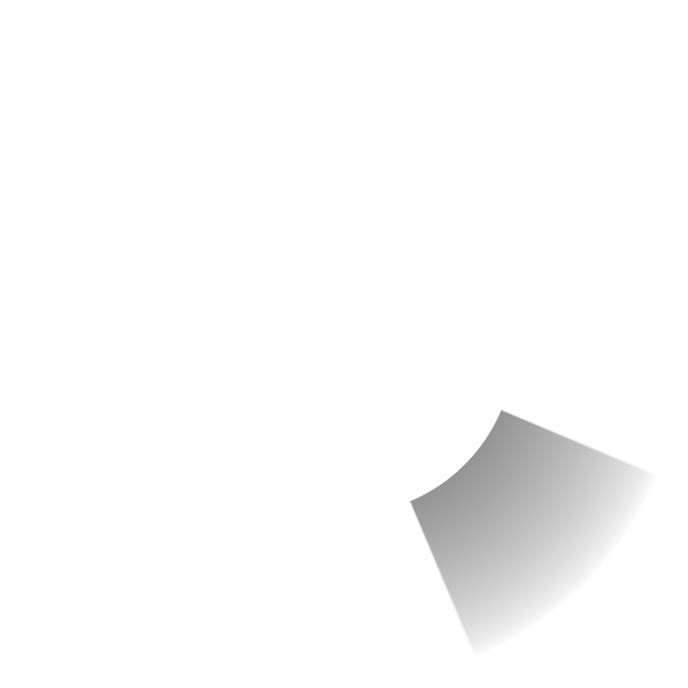
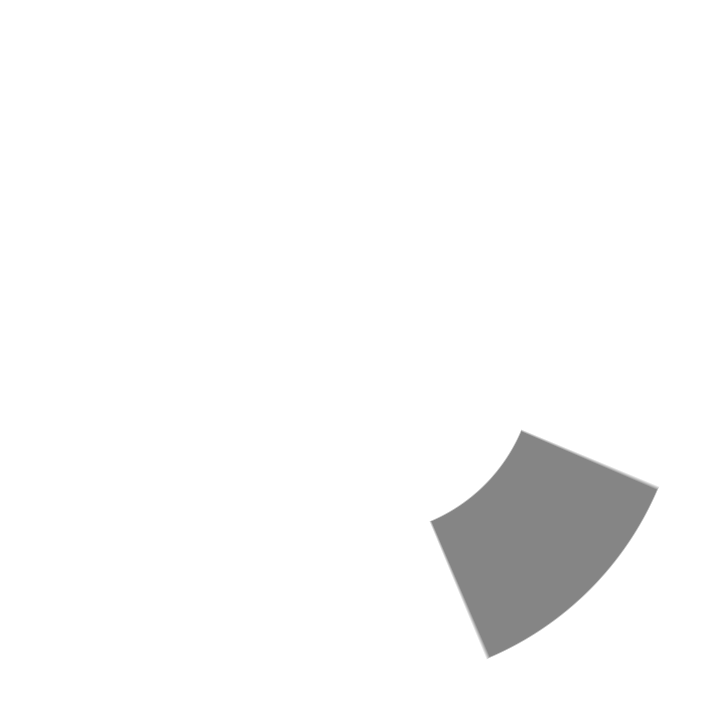
Refine wheel sector artwork and keep overlays mounted

Changed region(s): [[0.5799, 0.5799, 0.9462, 0.9462]]

diff --git a/tests/extension.test.js b/tests/extension.test.js
@@ -186,24 +186,31 @@ test('removes the tool and reports an error when mode registration fails', async
   assert.ok(fake.notifications.some(({ message, variant }) => message.includes('轮盘模式注册失败') && variant === 'ERROR'));
 });
 
-test('dragging updates one wheel image and broadcasts the original scene point', async t => {
+test('dragging updates overlay images without replacing the static wheel', async t => {
   const fake = await setup(t);
   const mode = fake.modes.values().next().value;
   mode.onToolDown({}, event(120, 240));
   await flush();
-  assert.equal(fake.items.size, 1);
-  const wheel = [...fake.items.values()][0];
-  assert.equal(wheel.image.url, TEST_UI_ASSETS.wheels.caution.url);
+  assert.equal(fake.items.size, 3);
+  const wheel = [...fake.items.values()].find(item => item.id.includes('/wheel-base/'));
+  const selection = [...fake.items.values()].find(item => item.id.includes('/wheel-selection/'));
+  const center = [...fake.items.values()].find(item => item.id.includes('/wheel-center/'));
+  assert.equal(wheel.image.url, TEST_UI_ASSETS.wheelBase.url);
+  assert.equal(selection.image.url, TEST_UI_ASSETS.wheelSelectionNone.url);
+  assert.equal(center.image.url, TEST_UI_ASSETS.wheelCenters.caution.url);
   mode.onToolMove({}, event(300, 240));
   await flush();
-  assert.equal(wheel.name, 'ON MY WAY');
-  assert.equal(wheel.image.url, TEST_UI_ASSETS.wheels.omw.url);
+  assert.equal(selection.name, 'ON MY WAY');
+  assert.equal(selection.image.url, TEST_UI_ASSETS.wheelSelections.omw.url);
+  assert.equal(center.image.url, TEST_UI_ASSETS.wheelCenters.omw.url);
   mode.onToolMove({}, event(120, 60));
   await flush();
-  assert.equal(wheel.name, 'RETREAT');
+  assert.equal(selection.name, 'RETREAT');
+  assert.equal(center.image.url, TEST_UI_ASSETS.wheelCenters.retreat.url);
   mode.onToolMove({}, event(120, 240));
   await flush();
-  assert.equal(wheel.name, 'CAUTION');
+  assert.equal(selection.name, 'CAUTION');
+  assert.equal(center.image.url, TEST_UI_ASSETS.wheelCenters.caution.url);
   mode.onToolUp({}, event(300, 240));
   await flush();
   assert.equal(fake.messages.length, 1);
@@ -299,18 +306,21 @@ test('all wheel states share a single image size, including bait and the full mi
   mode.onToolDown({}, event(200, 200));
   await flush();
   const wheel = [...fake.items.values()][0];
+  const selection = [...fake.items.values()].find(item => item.id.includes('/wheel-selection/'));
+  const center = [...fake.items.values()].find(item => item.id.includes('/wheel-center/'));
   for (const [index, id] of ['retreat', 'bait', 'omw', 'allin', 'assist', 'hold', 'missing', 'push'].entries()) {
     const angle = (-90 + index * 45) * Math.PI / 180;
     mode.onToolMove({}, event(200 + 130 * Math.cos(angle), 200 + 130 * Math.sin(angle)));
     await flush();
-    assert.equal(wheel.image.url, TEST_UI_ASSETS.wheels[id].url);
-    assert.equal(fake.items.size, 1, 'no independently scaled icons or labels');
-    assert.equal(wheel.image.width, 688);
-    assert.deepEqual(wheel.grid.offset, { x: 344, y: 344 });
+    assert.equal(selection.image.url, TEST_UI_ASSETS.wheelSelections[id].url);
+    assert.equal(center.image.url, TEST_UI_ASSETS.wheelCenters[id].url);
+    assert.equal(fake.items.size, 3, 'static wheel and two overlays remain mounted');
+      assert.equal(wheel.image.width, 728);
+    assert.deepEqual(wheel.grid.offset, { x: 364, y: 364 });
   }
   mode.onToolMove({}, event(70, 200));
   await flush();
-  assert.equal(wheel.name, 'ENEMY MISSING');
+  assert.equal([...fake.items.values()].find(item => item.id.includes('/wheel-selection/')).name, 'ENEMY MISSING');
 });
 
 test('remote scene isolation and overlapping pings remain independent', async t => {
@@ -419,7 +429,7 @@ test('fixed billboards and native labels share scene anchors across zoom and gri
     const ping = [...fake.items.values()].find(item => item.id.includes('/ping/'));
     for (const zoom of [0.01, 0.025, 0.05, 0.15, 0.5, 1, 2, 8, 32, 64]) {
       await fake.obr.viewport.setScale(zoom);
-      assert.deepEqual(projectedSize(wheel, dpi, zoom), { width: 344, height: 344 });
+      assert.deepEqual(projectedSize(wheel, dpi, zoom), { width: 364, height: 364 });
       assert.deepEqual(projectedSize(ping, dpi, zoom), { width: 200, height: 128 });
       assert.deepEqual(ping.position, { x: 900, y: 500 });
       assert.deepEqual(ping.grid.offset, { x: 200, y: 100 });
@@ -435,7 +445,7 @@ test('fixed billboards and native labels share scene anchors across zoom and gri
       const release = event(400 + 120 / zoom, 300);
       mode.onToolMove({}, release);
       await flush();
-      assert.equal(wheel.name, 'ON MY WAY', 'selection uses the current scale while the wheel is already open');
+      assert.equal([...fake.items.values()].find(item => item.id.includes('/wheel-selection/')).name, 'ON MY WAY', 'selection uses the current scale while the wheel is already open');
       mode.onToolMove({}, event(400, 300));
       await flush();
     }

diff --git a/src/extension.js b/src/extension.js
@@ -44,13 +44,13 @@ async function sceneKeyFor(OBR) {
   }
 }
 
-function makeBillboard(buildBillboard, image, point, width, dpi, itemType, name, offset) {
+function makeBillboard(buildBillboard, image, point, width, dpi, itemType, name, offset, zOffset = 0) {
   return buildBillboard(image, { offset: offset ?? { x: image.width / 2, y: image.height / 2 }, dpi })
     .id(`${EXTENSION_ID}/${itemType}/${crypto.randomUUID()}`)
     .name(name)
     .position(point)
     .scale({ x: width / image.width, y: width / image.width })
-    .zIndex(Date.now())
+    .zIndex(Date.now() + zOffset)
     .layer('POPOVER')
     .disableHit(true)
     .disableAutoZIndex(true)
@@ -159,7 +159,12 @@ export function registerExtension(OBR, { buildBillboard, buildLabel, signalAsset
     try {
       const dpi = await OBR.scene.grid.getDpi();
       if (!ready || gesture !== current || current.sceneKey !== sceneKey) return;
-      const items = [makeBillboard(buildBillboard, uiAssets.wheels.caution, point, WHEEL.outerRadius * 2 + 4, dpi, 'wheel', DEFAULT_SIGNAL.label)];
+      const wheelWidth = WHEEL.renderOuterRadius * 2 + 4;
+      const items = [
+        makeBillboard(buildBillboard, uiAssets.wheelBase, point, wheelWidth, dpi, 'wheel-base', 'wheel base', undefined, 0),
+        makeBillboard(buildBillboard, uiAssets.wheelSelectionNone, point, wheelWidth, dpi, 'wheel-selection', 'wheel selection', undefined, 1),
+        makeBillboard(buildBillboard, uiAssets.wheelCenters.caution, point, wheelWidth, dpi, 'wheel-center', DEFAULT_SIGNAL.label, undefined, 2),
+      ];
       current.itemIds = items.map(item => item.id);
       await OBR.scene.local.addItems(items);
     } catch (error) {
@@ -197,8 +202,9 @@ export function registerExtension(OBR, { buildBillboard, buildLabel, signalAsset
           const signal = next < 0 ? DEFAULT_SIGNAL : SIGNALS[next];
           await OBR.scene.local.updateItems(current.itemIds, items => {
             for (const item of items) {
-              item.image = uiAssets.wheels[signal.id];
-              item.name = signal.label;
+              if (item.id.includes('/wheel-selection/')) item.image = uiAssets.wheelSelections[signal.id];
+              if (item.id.includes('/wheel-center/')) item.image = uiAssets.wheelCenters[signal.id];
+              if (item.id.includes('/wheel-selection/') || item.id.includes('/wheel-center/')) item.name = signal.label;
             }
           });
         }

diff --git a/src/ui-assets.js b/src/ui-assets.js
@@ -4,13 +4,21 @@ export function uiAssetsFor(base) {
   });
   const ids = ['retreat', 'bait', 'omw', 'allin', 'assist', 'hold', 'missing', 'push', 'caution'];
   return {
-    wheels: Object.fromEntries(ids.map(id => [id, image(`wheel-${id}`, 688)])),
+    wheels: Object.fromEntries(ids.map(id => [id, image(`wheel-${id}`, 728)])),
+    wheelBase: image('wheel-base', 728),
+    wheelSelectionNone: image('wheel-selection-none', 728),
+    wheelSelections: Object.fromEntries(ids.map(id => [id, image(`wheel-selection-${id}`, 728)])),
+    wheelCenters: Object.fromEntries(ids.map(id => [id, image(`wheel-center-${id}`, 728)])),
     pings: Object.fromEntries(ids.map(id => [id, image(`ping-${id}`, 400, 256)])),
   };
 }
 
 export function preloadImages(uiAssets) {
-  return Promise.allSettled([...Object.values(uiAssets.wheels), ...Object.values(uiAssets.pings)].map(async content => {
+  return Promise.allSettled([
+    uiAssets.wheelBase, uiAssets.wheelSelectionNone,
+    ...Object.values(uiAssets.wheels), ...Object.values(uiAssets.wheelSelections),
+    ...Object.values(uiAssets.wheelCenters), ...Object.values(uiAssets.pings),
+  ].map(async content => {
     const image = new Image();
     image.src = content.url;
     await image.decode();

diff --git a/scripts/check.js b/scripts/check.js
@@ -21,7 +21,11 @@ const assetFiles = [
 ];
 for (const asset of assetFiles) await access(path.join(root, 'public/assets', asset));
 const uiAssets = uiAssetsFor(new URL('../public/', import.meta.url));
-for (const image of [...Object.values(uiAssets.wheels), ...Object.values(uiAssets.pings)]) {
+for (const image of [
+  uiAssets.wheelBase, uiAssets.wheelSelectionNone,
+  ...Object.values(uiAssets.wheels), ...Object.values(uiAssets.wheelSelections),
+  ...Object.values(uiAssets.wheelCenters), ...Object.values(uiAssets.pings),
+]) {
   await access(fileURLToPath(image.url));
 }
 for (const field of ['icon', 'background_url']) {

diff --git a/tests/render-fixture.html b/tests/render-fixture.html
@@ -4,7 +4,7 @@
 <style>
   body { margin: 24px; color: #eee; background: #253536; font: 16px sans-serif; }
   main { display: flex; align-items: center; gap: 48px; margin-top: 24px; }
-  #wheel { width: 344px; height: 344px; }
+  #wheel { width: 364px; height: 364px; }
   #ping-frame { position: relative; width: 200px; height: 128px; }
   #ping-frame img { position: absolute; inset: 0; width: 200px; height: 128px; }
   #ping-label { position: absolute; top: 45px; left: 0; width: 200px; text-align: center; font: 700 13px Roboto, sans-serif; color: #fff7e8; text-shadow: 0 1px 1px #111b20; }

diff --git a/src/geometry.js b/src/geometry.js
@@ -1,4 +1,4 @@
-export const WHEEL = Object.freeze({ innerRadius: 85, outerRadius: 170, iconRadius: 128, iconSize: 42 });
+export const WHEEL = Object.freeze({ innerRadius: 85, outerRadius: 170, renderOuterRadius: 180, iconRadius: 128, iconSize: 42 });
 
 export function pickSlice(dx, dy, deadZone = WHEEL.innerRadius) {
   if (!Number.isFinite(dx) || !Number.isFinite(dy) || Math.hypot(dx, dy) < deadZone) return -1;

diff --git a/scripts/generate-ui-assets.py b/scripts/generate-ui-assets.py
@@ -2,27 +2,40 @@
 from math import atan2, cos, exp, hypot, pi, sin
 from pathlib import Path
 import re
-
 from PIL import Image, ImageDraw, ImageFont
 
 OUTPUT = Path(__file__).resolve().parents[1] / "public" / "ui"
 OUTPUT.mkdir(exist_ok=True)
+SCALE = 2
+CANVAS = 728
+CENTER = CANVAS // 2
+INNER = 85
+CARDINAL_OUTER = 180
+DIAGONAL_OUTER = 160
 
-# Two pixels per screen pixel keep edges smooth without relying on host SVG support.
+def sector_radius(index):
+    return CARDINAL_OUTER if index % 2 == 0 else DIAGONAL_OUTER
+
+def sector_image(index, selected):
+    rgb, opacity = ((24, 160, 218), 0.64) if selected else ((0, 0, 0), 0.48)
+    image = Image.new("RGBA", (CANVAS, CANVAS))
+    pixels = image.load()
+    radius_limit = sector_radius(index)
+    for y in range(CANVAS):
+        for x in range(CANVAS):
+            dx, dy = (x + 0.5) / SCALE - CENTER / SCALE, (y + 0.5) / SCALE - CENTER / SCALE
+            radius = hypot(dx, dy)
+            angle = (atan2(dy, dx) * 180 / pi + 112.5 - index * 45) % 360
+            if INNER <= radius <= radius_limit and angle < 45:
+                edge = min(1, angle / 0.8, (45 - angle) / 0.8, (radius - INNER) / 0.8,
+                           (radius_limit - radius) / 0.8)
+                radial = max(0, 1 - (radius - INNER) / max(1, radius_limit - INNER)) ** 0.7 if selected else 1
+                pixels[x, y] = (*rgb, round(255 * opacity * radial * edge))
+    return image
+
 for index in range(8):
-    for state, rgb, opacity in [("idle", (0, 0, 0), 0.42), ("selected", (24, 160, 218), 0.64)]:
-        image = Image.new("RGBA", (688, 688))
-        pixels = image.load()
-        for y in range(688):
-            for x in range(688):
-                dx, dy = (x + 0.5) / 2 - 172, (y + 0.5) / 2 - 172
-                radius = hypot(dx, dy)
-                angle = (atan2(dy, dx) * 180 / pi + 112.5 - index * 45) % 360
-                if 85 <= radius <= 170 and angle < 45:
-                    radial = max(0, 1 - (radius - 85) / 85) ** 0.7
-                    edge = min(1, angle / 0.6, (45 - angle) / 0.6, (radius - 85) / 0.6)
-                    pixels[x, y] = (*rgb, round(255 * opacity * radial * edge))
-        image.save(OUTPUT / f"sector-{index}-{state}.png", optimize=True)
+    sector_image(index, False).save(OUTPUT / f"sector-{index}-idle.png", optimize=True)
+    sector_image(index, True).save(OUTPUT / f"sector-{index}-selected.png", optimize=True)
 
 colors = {"red": "f12c55", "gold": "d8c79a", "blue": "22b9e9", "green": "16ce86", "yellow": "f6ba00"}
 for name, color in colors.items():
@@ -48,8 +61,8 @@ draw.text((64, 32), "ESC", font=font, fill=(206, 201, 195, 255), anchor="mm")
 image.save(OUTPUT / "esc-key.png", optimize=True)
 
 geometry = (OUTPUT.parents[1] / 'src' / 'geometry.js').read_text(encoding='utf-8')
-inner, outer, icon_radius, icon_size = [int(re.search(rf'{key}: (\d+)', geometry)[1])
-    for key in ['innerRadius', 'outerRadius', 'iconRadius', 'iconSize']]
+inner, icon_radius, icon_size = [int(re.search(rf'{key}: (\d+)', geometry)[1])
+    for key in ['innerRadius', 'iconRadius', 'iconSize']]
 signals = [
     ('retreat', 'Retreat', 'RETREAT', '#f12c55', 'red'),
     ('bait', 'Bait', 'BAIT', '#d8c79a', 'gold'),
@@ -64,34 +77,57 @@ signals = [
 
 def paste_icon(canvas, signal, point, size):
     source = Image.open(OUTPUT.parent / 'assets' / f'{signal[1]}_ping.png').convert('RGBA')
-    side = round(size * 2 * (1.15 if signal[0] == 'bait' else 1))
+    side = round(size * SCALE * (1.15 if signal[0] == 'bait' else 1))
     source = source.resize((side, side), Image.Resampling.LANCZOS)
-    canvas.alpha_composite(source, (round(point[0] * 2 - side / 2), round(point[1] * 2 - side / 2)))
+    canvas.alpha_composite(source, (round(point[0] * SCALE - side / 2), round(point[1] * SCALE - side / 2)))
 
-for selected, signal in enumerate(signals):
-    canvas = Image.new('RGBA', (688, 688))
+def draw_base():
+    canvas = Image.new('RGBA', (CANVAS, CANVAS))
     for index in range(8):
-        state = 'selected' if index == selected else 'idle'
-        canvas.alpha_composite(Image.open(OUTPUT / f'sector-{index}-{state}.png'))
+        canvas.alpha_composite(Image.open(OUTPUT / f'sector-{index}-idle.png'))
     draw = ImageDraw.Draw(canvas)
     for index in range(8):
         angle = (-112.5 + index * 45) * pi / 180
-        draw.line(((172 + inner * cos(angle)) * 2, (172 + inner * sin(angle)) * 2,
-                   (172 + outer * cos(angle)) * 2, (172 + outer * sin(angle)) * 2), fill=(200, 170, 110, 100), width=2)
-    draw.ellipse(((172 - inner) * 2, (172 - inner) * 2, (172 + inner) * 2, (172 + inner) * 2),
+        radius = sector_radius(index)
+        draw.line(((CENTER + INNER * cos(angle)) * SCALE, (CENTER + INNER * sin(angle)) * SCALE,
+                   (CENTER + radius * cos(angle)) * SCALE, (CENTER + radius * sin(angle)) * SCALE),
+                  fill=(200, 170, 110, 180), width=2)
+    center = CENTER / SCALE
+    draw.ellipse(((center - inner) * SCALE, (center - inner) * SCALE,
+                  (center + inner) * SCALE, (center + inner) * SCALE),
                  fill=(11, 36, 38, 210), outline=(200, 170, 110, 250), width=3)
+    draw.ellipse(((center - 78) * SCALE, (center - 78) * SCALE,
+                  (center + 78) * SCALE, (center + 78) * SCALE),
+                 outline=(216, 199, 154, 255), width=6)
     for index, outer_signal in enumerate(signals[:8]):
         angle = (-90 + index * 45) * pi / 180
-        paste_icon(canvas, outer_signal, (172 + icon_radius * cos(angle), 172 + icon_radius * sin(angle)), icon_size)
-    paste_icon(canvas, signal, (172, 128), 32)
-    draw = ImageDraw.Draw(canvas)
-    label_font = ImageFont.truetype('C:/Windows/Fonts/arialbd.ttf', 28 if signal[0] == 'missing' else 30)
-    draw.text((344, 344), signal[2], font=label_font, fill=signal[3], anchor='mm')
-    # Keycap and Back share one baseline inside the same image.
-    canvas.alpha_composite(Image.open(OUTPUT / 'esc-key.png').resize((48, 24), Image.Resampling.LANCZOS), (284, 416))
-    ImageDraw.Draw(canvas).text((366, 428), 'Back', font=ImageFont.truetype('C:/Windows/Fonts/arial.ttf', 22), fill='#b8afb0', anchor='mm')
-    canvas.save(OUTPUT / f'wheel-{signal[0]}.png', optimize=True)
+        paste_icon(canvas, outer_signal, (center + icon_radius * cos(angle), center + icon_radius * sin(angle)), icon_size)
+    canvas.alpha_composite(Image.open(OUTPUT / 'esc-key.png').resize((48, 24), Image.Resampling.LANCZOS),
+                           (round(center * SCALE - 60), round(center * SCALE + 72)))
+    ImageDraw.Draw(canvas).text((round(center * SCALE + 22), round(center * SCALE + 84)), 'Back',
+                                font=ImageFont.truetype('C:/Windows/Fonts/arial.ttf', 22), fill='#b8afb0', anchor='mm')
+    return canvas
 
+base = draw_base()
+base.save(OUTPUT / 'wheel-base.png', optimize=True)
+Image.new('RGBA', (CANVAS, CANVAS)).save(OUTPUT / 'wheel-selection-none.png', optimize=True)
+
+for selected, signal in enumerate(signals):
+    selection = Image.new('RGBA', (CANVAS, CANVAS))
+    if selected < 8:
+        selection.alpha_composite(Image.open(OUTPUT / f'sector-{selected}-selected.png'))
+    selection.save(OUTPUT / f'wheel-selection-{signal[0]}.png', optimize=True)
+    center = Image.new('RGBA', (CANVAS, CANVAS))
+    paste_icon(center, signal, (CENTER / SCALE, CENTER / SCALE - 44), 32)
+    label_font = ImageFont.truetype('C:/Windows/Fonts/arialbd.ttf', 28 if signal[0] == 'missing' else 30)
+    ImageDraw.Draw(center).text((CENTER, CENTER), signal[2], font=label_font, fill=signal[3], anchor='mm')
+    center.save(OUTPUT / f'wheel-center-{signal[0]}.png', optimize=True)
+    full = base.copy()
+    full.alpha_composite(selection)
+    full.alpha_composite(center)
+    full.save(OUTPUT / f'wheel-{signal[0]}.png', optimize=True)
+
+for signal in signals:
     ping = Image.new('RGBA', (400, 256))
     ping.alpha_composite(Image.open(OUTPUT / f'ring-{signal[4]}.png'), (72, 12))
     paste_icon(ping, signal, (100, 25), 48)

diff --git a/README.md b/README.md
@@ -10,7 +10,7 @@ This is a standalone Owlbear Rodeo 2 extension built with `@owlbear-rodeo/sdk`. 
 4. On the map, hold the left mouse button to open the wheel, drag toward one of eight signals, then release to send it. Releasing in the center sends the default **Caution** ping; press **Esc** to cancel.
 5. Everyone in the same room with the extension enabled sees the same scene-point ping, the sender name, and the signal name. Signals stack when they overlap and fade after three seconds.
 
-The wheel uses a compact center disc, thin gold radial guides, black transparent gradients for idle sectors and blue gradients for the selected sector. Each wheel state is a single transparent PNG containing the icons, full center label, and aligned Esc/Back hint. Each ping uses a hosted PNG for its icon and glowing oval, with an Owlbear native label for the sender text. Labels have a transparent background and no pointer; no data or blob image URLs are generated. The label and icon share the original scene anchor and leave view-scale limits unset for Owlbear's screen-space zoom compensation. The wheel is 344 CSS pixels wide. Wheel images are preloaded, and pointer bursts are coalesced to the latest position so slow host replies do not accumulate stale moves; release still uses the latest viewport scale and position. Signals stay anchored to the original scene point. The supplied OGG cues play locally; Web Audio remains a fallback when a browser blocks or cannot load a cue. Bait uses the supplied `Bait_ping_SFX.ogg`.
+The wheel uses a compact center disc, thin gold radial guides, black transparent idle sectors with visible gold boundaries and blue selected sectors. The cardinal sectors extend slightly farther than the diagonal sectors. Each wheel state is assembled from a static base, a selection overlay, and a center overlay, so changing the highlighted signal never removes and recreates the wheel. The center has a thin deep-gold outer rim and a thicker pale-gold inner rim. Each ping uses a hosted PNG for its icon and glowing oval, with an Owlbear native label for the sender text. Labels have a transparent background and no pointer; no data or blob image URLs are generated. The label and icon share the original scene anchor and leave view-scale limits unset for Owlbear's screen-space zoom compensation. The wheel is 364 CSS pixels wide. Wheel images are preloaded, and pointer bursts are coalesced to the latest position so slow host replies do not accumulate stale moves; release still uses the latest viewport scale and position. Signals stay anchored to the original scene point. The supplied OGG cues play locally; Web Audio remains a fallback when a browser blocks or cannot load a cue. Bait uses the supplied `Bait_ping_SFX.ogg`.
 
 ## Develop
 
